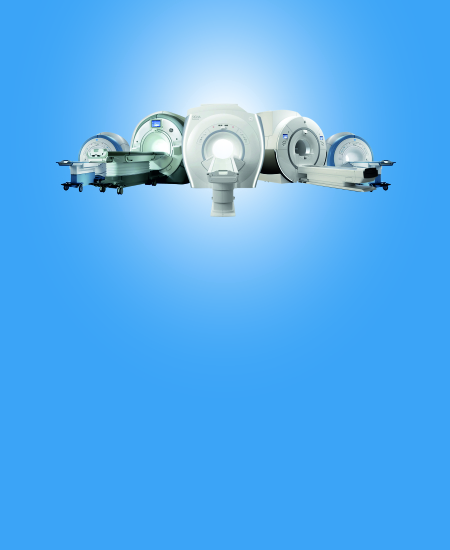
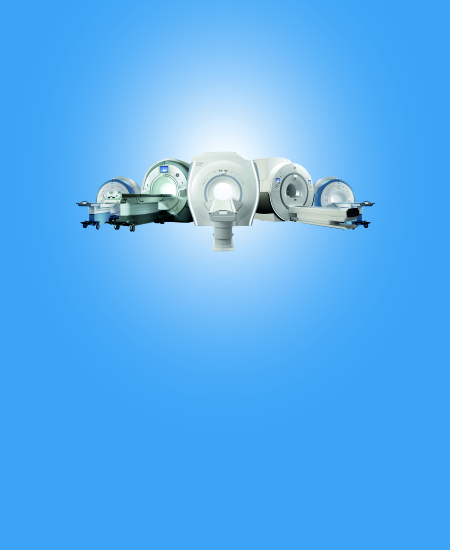
slider mobile

Changed region(s): [[0.1244, 0.0, 0.8711, 0.6182]]

diff --git a/css_files/style.css b/css_files/style.css
@@ -835,7 +835,7 @@ video {
 
 @media screen and (max-width: 800px){
 	.myslide{
-		height: 500px;
+		height: 425px;
 	}
 
   .prev, .next{
@@ -1024,7 +1024,7 @@ video {
 	.txt1{
 		letter-spacing: 0px;
 		line-height: 35px;
-		top: 80%;
+		top: 73%;
 		left: 50%;
 		transform: translate(-50%, -50%);
 		-webkit-animation-name: positxt2;
